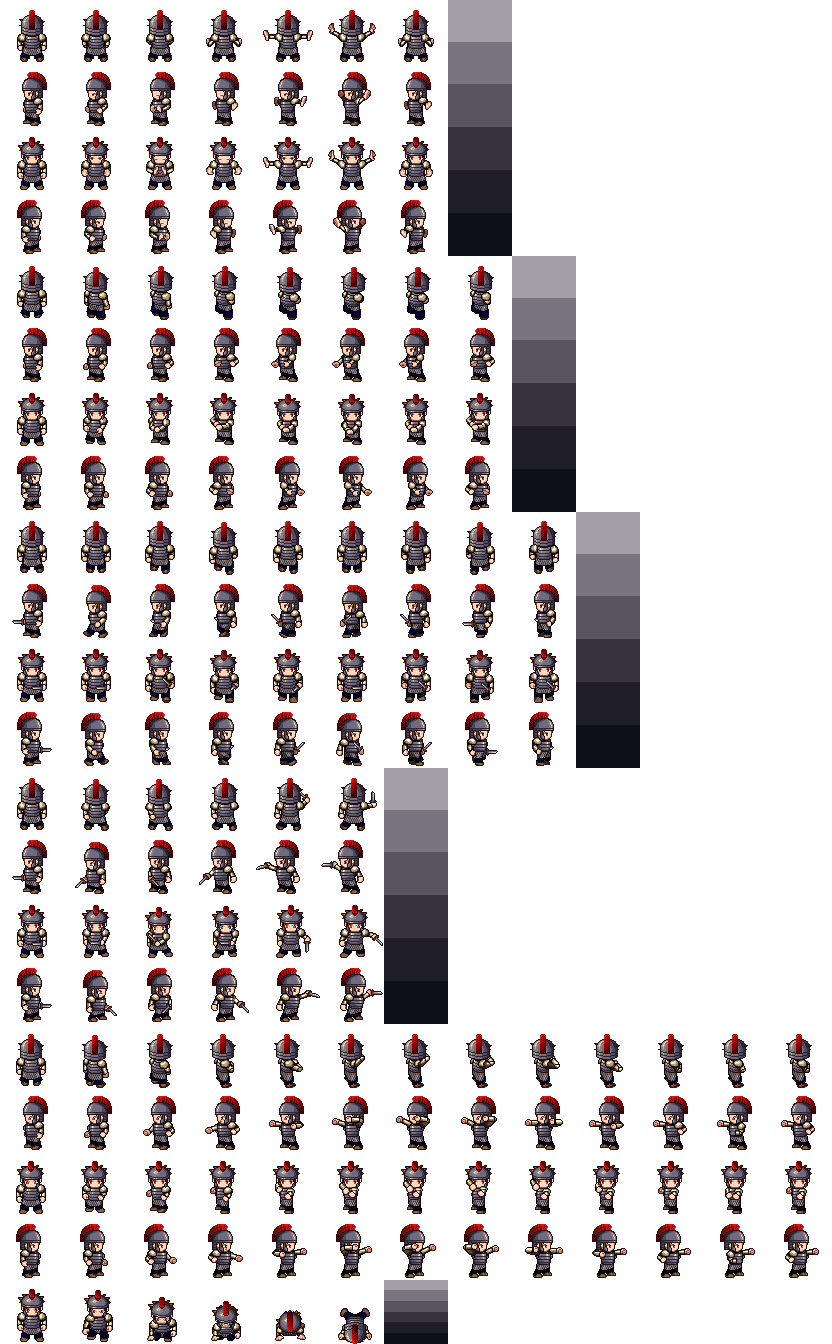
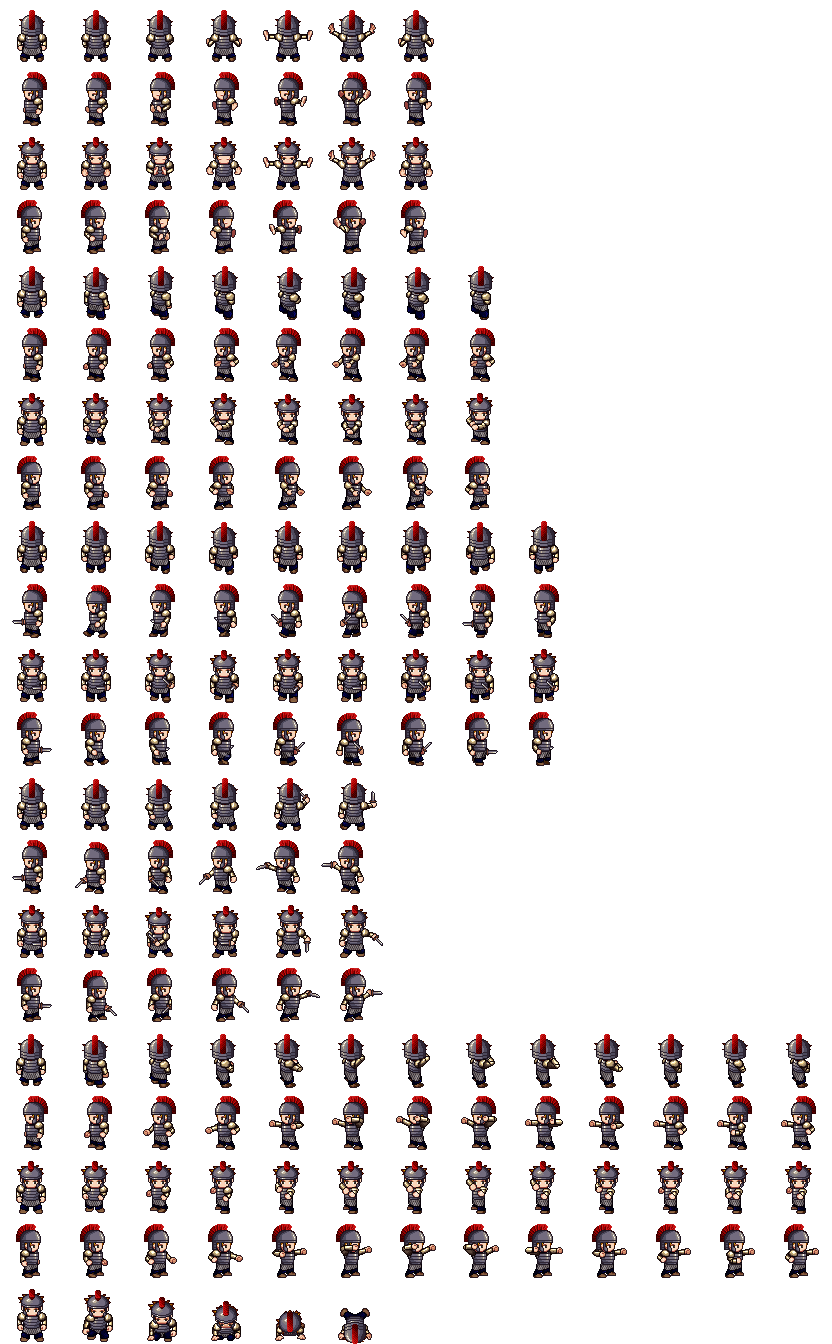
NEW PLAYER!!! welcome

Changed region(s): [[0.5312, 0.0, 0.7812, 0.5938], [0.4375, 0.5625, 0.5625, 0.7812], [0.4375, 0.9375, 0.5625, 1.0]]

diff --git a/Gruppo1_SOE/src/twinkingdom/gfx/PlayerAssets.java b/Gruppo1_SOE/src/twinkingdom/gfx/PlayerAssets.java
@@ -11,55 +11,63 @@ import java.util.Map;
 
 /**
  *
- * @author mario
+ * @author Alex1
  */
-public class PlayerAssets extends EntityAssets{
-    
-    public static BufferedImage[] player_down, player_up, player_left, player_right;
-    public static BufferedImage[] player_right_stable, player_down_stable, player_left_stable, player_up_stable;
-    public static BufferedImage[] player_down_attack, player_up_attack, player_left_attack, player_right_attack;
-    public static Map<String, Map<String, BufferedImage[]>> playerAnimations;
+public class PlayerAssets extends EntityAssets {
+  
+         private static Map<String, Map<String, BufferedImage[]>> playerAnimations;
+
+  
     
     public void init(){
-        SpriteSheet sheet = new SpriteSheet(ImageLoader.loadImage("/twinkingdom/images/Player2.png"));
         //player = sheet.crop(0, 610, 128, 128);
-        player_down = new BufferedImage[8];
-        player_up = new BufferedImage[8];
-        player_left = new BufferedImage[8];
-        player_right = new BufferedImage[8];
-        player_up_stable = new BufferedImage[8];
-        player_right_stable = new BufferedImage[8];
-        player_left_stable = new BufferedImage[8];
-        player_down_stable = new BufferedImage[8];
-        player_down_attack = new BufferedImage[8];
-        player_up_attack= new BufferedImage[8];
-        player_left_attack= new BufferedImage[8];
-        player_right_attack=new BufferedImage[8];
+        BufferedImage[] player_down = new BufferedImage[9];
+        BufferedImage[] player_up = new BufferedImage[9];
+        BufferedImage[] player_left = new BufferedImage[9];
+        BufferedImage[] player_right = new BufferedImage[9];
+        BufferedImage[] player_up_stable = new BufferedImage[9];
+        BufferedImage[] player_right_stable = new BufferedImage[9];
+        BufferedImage[] player_left_stable = new BufferedImage[9];
+        BufferedImage[] player_down_stable = new BufferedImage[9];
+        BufferedImage[] player_down_attack = new BufferedImage[9];
+        BufferedImage[] player_up_attack= new BufferedImage[9];
+        BufferedImage[] player_left_attack= new BufferedImage[9];
+        BufferedImage[] player_right_attack=new BufferedImage[9];
         
         
         int startingX=0;
-        int startingY=0;
-        int height= 40;
-        int width = 39;
-        int startingYStable= 8*height;
-        int startingYAttack= 4*height;
-        for(int i=0;i<8;i++){
-            
-            player_right_attack[i] =  sheet.crop(startingX + i*width, startingYAttack + 3*height, width, height);
-            player_down_attack[i] =  sheet.crop(startingX + i*width, startingYAttack, width, height);
-            player_up_attack[i] =  sheet.crop(startingX + i*width, startingYAttack + height, width, height);
-            player_left_attack[i] =  sheet.crop(startingX + i*width, startingYAttack+ 2*height, width, height);
-            
-            player_right_stable[i] =  sheet.crop(startingX + 3*width, startingYStable, width, height);
-            player_down_stable[i] =  sheet.crop(startingX, startingYStable, width, height);
-            player_up_stable[i] =  sheet.crop(startingX + width, startingYStable, width, height);
-            player_left_stable[i] =  sheet.crop(startingX + 2*width, startingYStable, width, height);
-            
+        int startingYSpell=0;
+        int height= 64;
+        int width = 64;
+        int startingXStable = 0;
+        int startingYStable=0;
+        int startingXAttack=0;
+        int startingYSlashAttack= 12*height;
+        int startingYWalk= 8*height;
+        SpriteSheet sheet1, sheet2, sheet = null;            
+        sheet = new SpriteSheet(ImageLoader.loadImage("/twinkingdom/images/player_sword.png"));
 
-            player_down[i] =  sheet.crop(startingX + i*width, startingY, width, height);
-            player_left[i] =  sheet.crop(startingX + i*width, startingY + 2*height, width, height);
-            player_right[i] =  sheet.crop(startingX + i*width, startingY + 3*height, width, height);
-            player_up[i] =  sheet.crop(startingX + i*width, startingY + height, width, height);
+
+        for(int i=0;i<9;i++){
+            if(i<6){
+            player_down_attack[i] =  sheet.crop(startingXAttack + i*width, startingYSlashAttack + 2*height , width, height);
+            player_right_attack[i] =  sheet.crop(startingXAttack + i*width, startingYSlashAttack + 3*height, width, height);
+            player_up_attack[i] =  sheet.crop(startingXAttack + i*width, startingYSlashAttack, width, height);
+            player_left_attack[i] =  sheet.crop(startingXAttack + i*width, startingYSlashAttack + height, width, height);
+            }
+            
+            
+            //sheet = new SpriteSheet(ImageLoader.loadImage("/twinkingdom/images/EBros_player_samurai/player_Samurai_Walk.png"));
+            player_down_stable[i] =  sheet.crop(startingX , startingYWalk + 2*height , width, height);
+            player_right_stable[i] =  sheet.crop(startingX, startingYWalk + 3*height, width, height);
+            player_up_stable[i] =  sheet.crop(startingX, startingYWalk, width, height);
+            player_left_stable[i] =  sheet.crop(startingX, startingYWalk + height, width, height);
+
+            
+            player_down[i] =  sheet.crop(startingX + i*width , startingYWalk + 2*height , width, height);
+            player_right[i] =  sheet.crop(startingX + i*width , startingYWalk + 3*height, width, height);
+            player_up[i] =  sheet.crop(startingX + i*width , startingYWalk, width, height);
+            player_left[i] =  sheet.crop(startingX + i*width , startingYWalk + height, width, height);
 
         }
         
@@ -95,9 +103,9 @@ public class PlayerAssets extends EntityAssets{
         playerAnimations.put("right", playerRight);
    
     }
-    
+
     @Override
-    public Map<String, Map<String, BufferedImage[]>> getAnimations(){
+    public Map<String, Map<String, BufferedImage[]>> getAnimations() {
         return playerAnimations;
     }
     

diff --git a/Gruppo1_SOE/src/twinkingdom/gfx/ArmorAssets.java b/Gruppo1_SOE/src/twinkingdom/gfx/ArmorAssets.java
@@ -13,7 +13,7 @@ import java.util.Map;
  *
  * @author Alex1
  */
-public class ArmorAssets {
+public class ArmorAssets extends EntityAssets {
     
      
     private static Map<String, Map<String, BufferedImage[]>> armorAnimations;
@@ -22,18 +22,18 @@ public class ArmorAssets {
     
     public void init(){
         //player = sheet.crop(0, 610, 128, 128);
-        BufferedImage[] armor_down = new BufferedImage[6];
-        BufferedImage[] armor_up = new BufferedImage[6];
-        BufferedImage[] armor_left = new BufferedImage[6];
-        BufferedImage[] armor_right = new BufferedImage[6];
-        BufferedImage[] armor_up_stable = new BufferedImage[6];
-        BufferedImage[] armor_right_stable = new BufferedImage[6];
-        BufferedImage[] armor_left_stable = new BufferedImage[6];
-        BufferedImage[] armor_down_stable = new BufferedImage[6];
-        BufferedImage[] armor_down_attack = new BufferedImage[6];
-        BufferedImage[] armor_up_attack= new BufferedImage[6];
-        BufferedImage[] armor_left_attack= new BufferedImage[6];
-        BufferedImage[] armor_right_attack=new BufferedImage[6];
+        BufferedImage[] armor_down = new BufferedImage[5];
+        BufferedImage[] armor_up = new BufferedImage[5];
+        BufferedImage[] armor_left = new BufferedImage[5];
+        BufferedImage[] armor_right = new BufferedImage[5];
+        BufferedImage[] armor_up_stable = new BufferedImage[5];
+        BufferedImage[] armor_right_stable = new BufferedImage[5];
+        BufferedImage[] armor_left_stable = new BufferedImage[5];
+        BufferedImage[] armor_down_stable = new BufferedImage[5];
+        BufferedImage[] armor_down_attack = new BufferedImage[5];
+        BufferedImage[] armor_up_attack= new BufferedImage[5];
+        BufferedImage[] armor_left_attack= new BufferedImage[5];
+        BufferedImage[] armor_right_attack=new BufferedImage[5];
         
         
         
